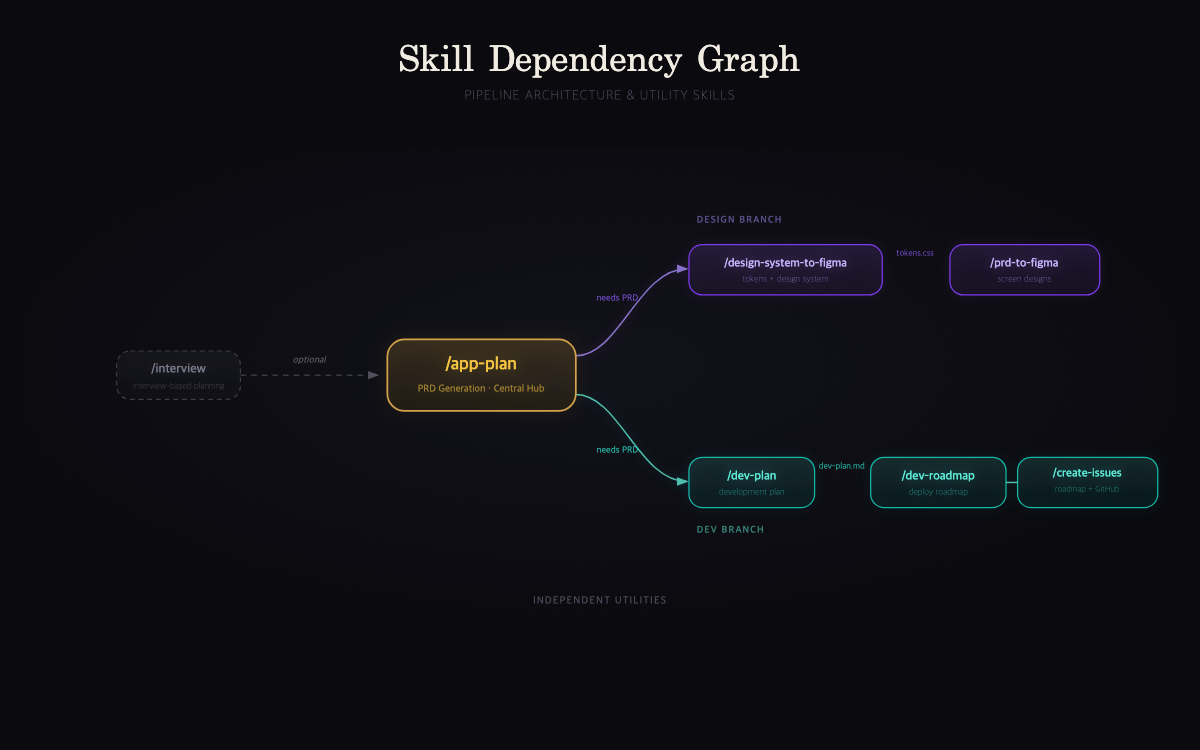
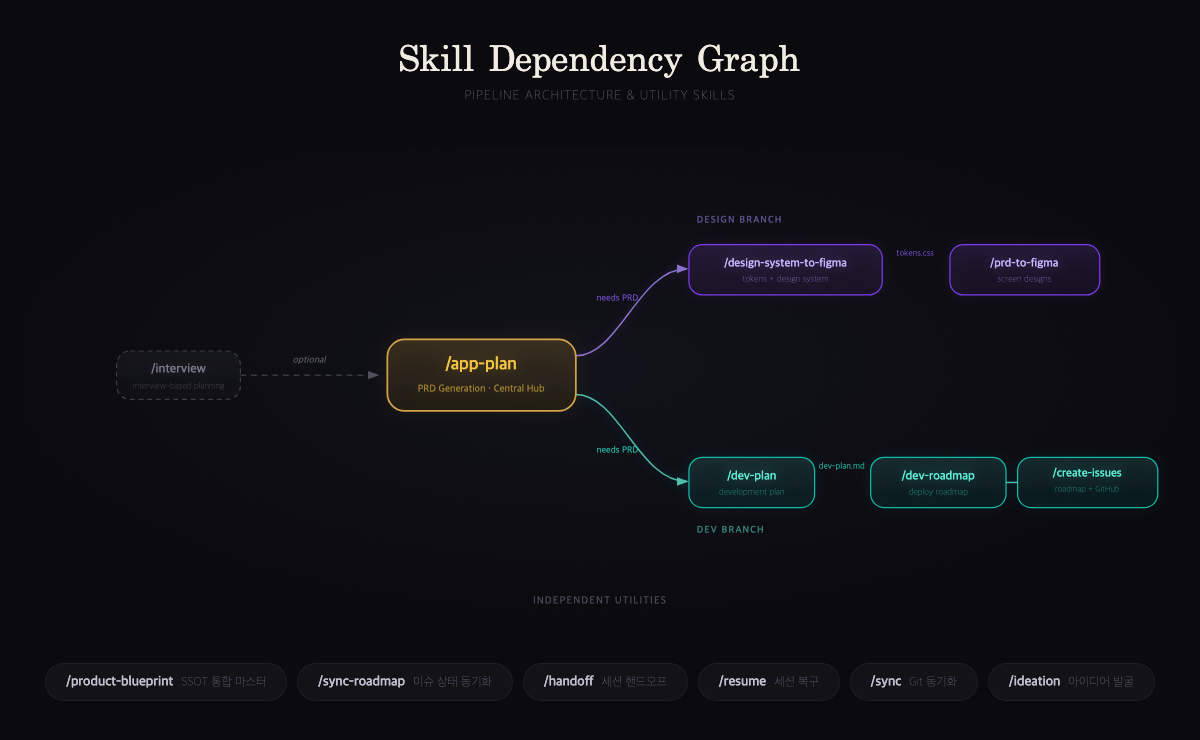
Fix: 다이어그램 스크린샷 잘림 해결 + handoff/resume 세션 관리로 분류
- Python PIL로 콘텐츠 하단 경계 감지 후 자동 crop (빈 영역 제거)
  - pipeline: 1200x801, workflow: 1200x2445, dependencies: 1200x740
- README: handoff/resume를 파이프라인에서 분리, "세션 관리 스킬" 섹션 신설

diff --git a/docs/diagrams/dependencies.html b/docs/diagrams/dependencies.html
@@ -15,8 +15,10 @@
     color:#e8e8ed;
     display:flex;
     justify-content:center;
+    width:1200px;
+    height:fit-content;
     padding:40px 20px;
-    overflow-x:hidden;
+    overflow:hidden;
   }
 
   .container{

diff --git a/docs/diagrams/workflow-example.html b/docs/diagrams/workflow-example.html
@@ -14,7 +14,9 @@
     background: #0a0a0f;
     color: #e0e0e8;
     line-height: 1.6;
-    overflow-x: hidden;
+    width: 1200px;
+    height: fit-content;
+    overflow: hidden;
     position: relative;
   }
 

diff --git a/docs/diagrams/pipeline.html b/docs/diagrams/pipeline.html
@@ -31,6 +31,8 @@
     background: var(--bg);
     color: var(--text);
     width: 1200px;
+    height: fit-content;
+    overflow: hidden;
     position: relative;
   }
 

diff --git a/README.md b/README.md
@@ -47,6 +47,13 @@
 | `/dev-roadmap` | `deploy-roadmap.md` + 타임라인 HTML | M0~M3 마일스톤, claude-task/human-task 분류 |
 | `/create-issues` | GitHub Issues | 에픽 + 하위 작업 자동 생성 |
 
+### 세션 관리 스킬 (중간중간 사용)
+
+| 스킬 | 설명 |
+|------|------|
+| `/handoff` | 세션 종료 시 핸드오프 문서 생성 (10개 필수 섹션 + 커밋) |
+| `/resume` | 새 세션 시작 시 프로젝트 상태 파악 + 이어하기 |
+
 ### 유틸리티 스킬
 
 | 스킬 | 설명 |
@@ -54,8 +61,6 @@
 | `/init-project` | 새 프로젝트 부트스트랩 |
 | `/product-blueprint` | SSOT 통합 마스터 HTML (각 스킬 완료 시 자동 업데이트) |
 | `/sync-roadmap` | GitHub Issues 상태 기반 로드맵 최신화 |
-| `/handoff` | 세션 핸드오프 문서 생성 |
-| `/resume` | 프로젝트 상태 파악 + 이어하기 |
 | `/sync` | Git pull + 충돌 해결 |
 | `/ideation` | 8개 에이전트로 앱 아이디어 발굴 |
 
